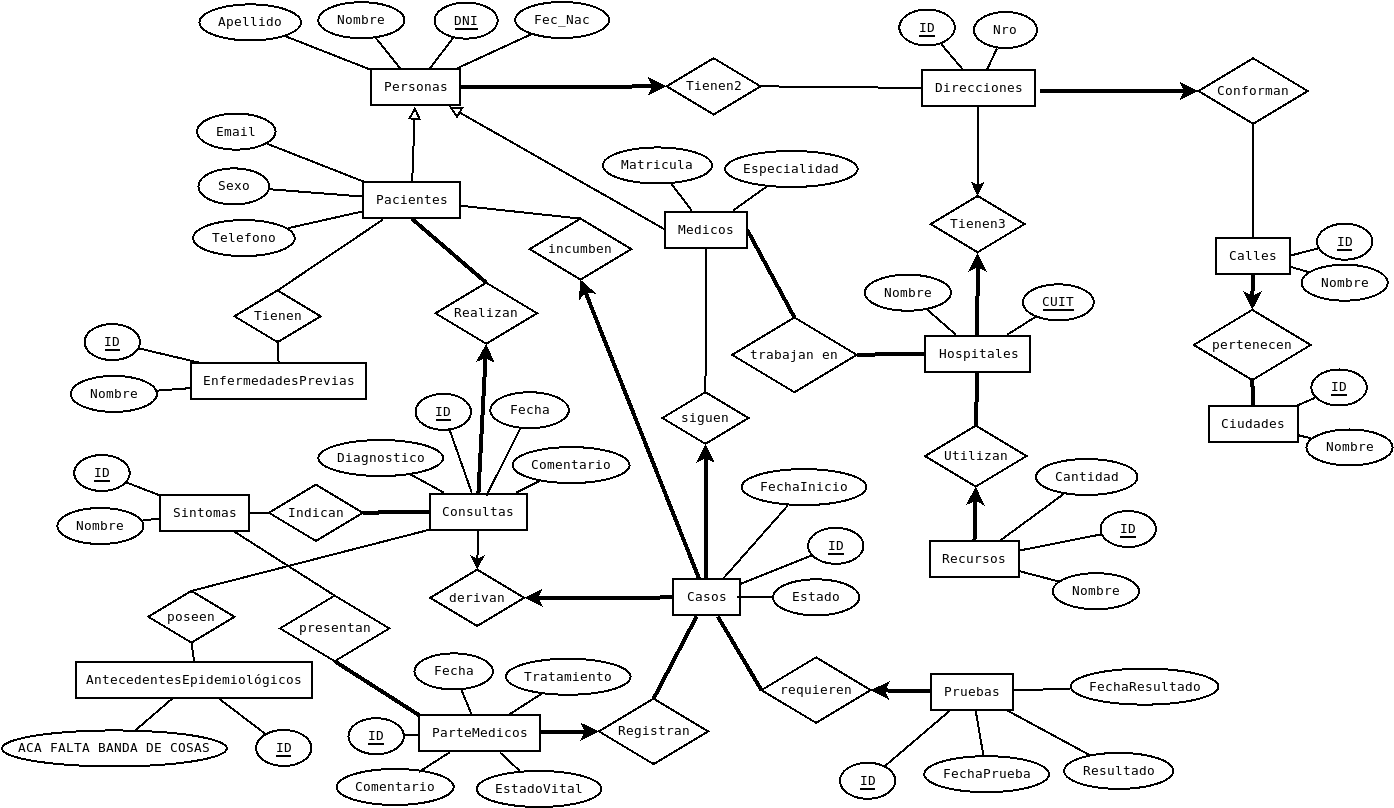
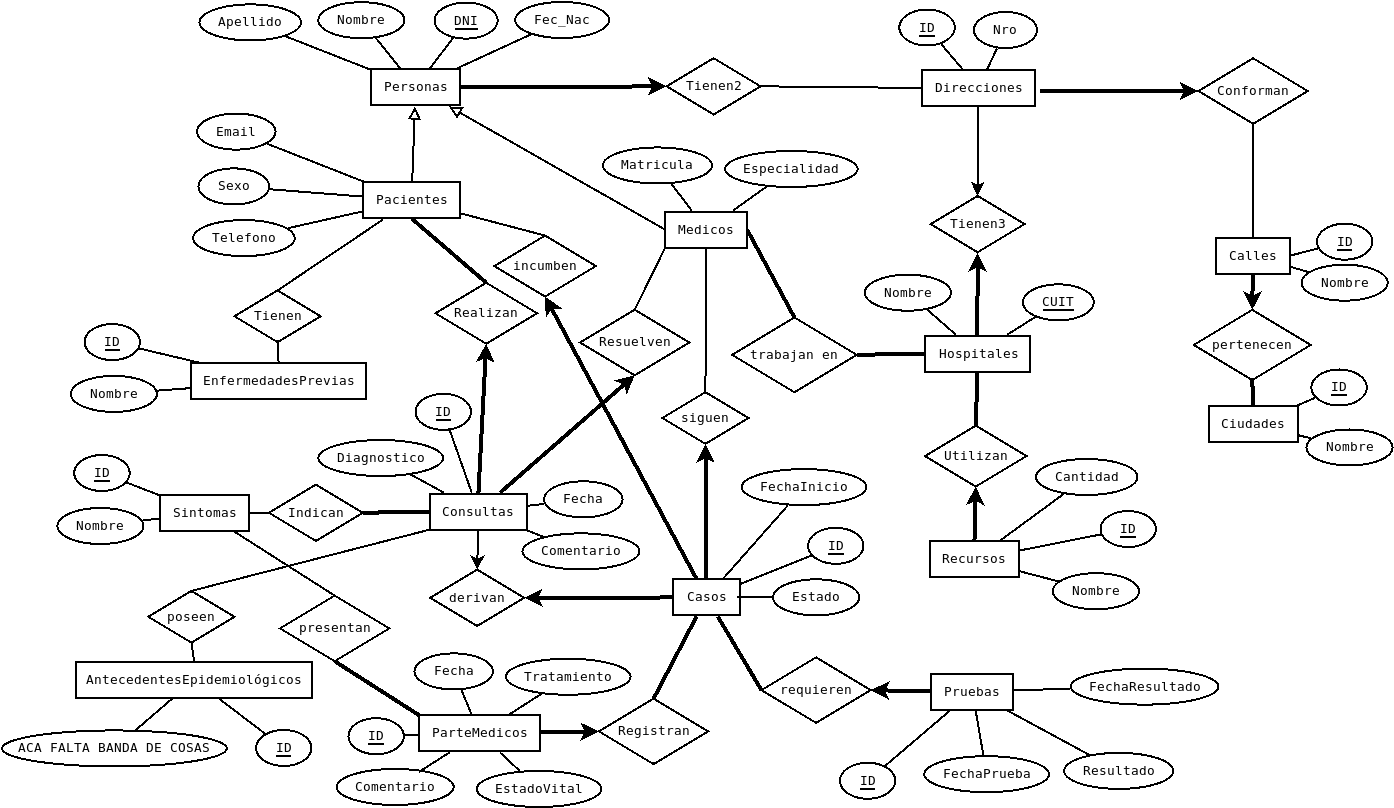
Relacion consulta - Medico added

Changed region(s): [[0.3393, 0.2785, 0.4935, 0.7116], [0.4935, 0.6807, 0.5244, 0.7116], [0.3393, 0.2475, 0.3702, 0.2785]]

diff --git a/src/dal/entities/Consulta.js b/src/dal/entities/Consulta.js
@@ -31,6 +31,7 @@ module.exports = (sequelize, DataType) => {
     Consulta.associate = (models) => {
         Consulta.belongsTo(models.Pacientes, { foreignKey: { allowNull: false }, onDelete: 'CASCADE' });
         Consulta.belongsToMany(models.Sintomas,{through: 'Sintomas_Consultas'});
+	Caso.belongsTo(models.Medicos, { foreignKey: { allowNull: false }, onDelete: 'CASCADE' });
         //Consulta.belongsToMany(models.AntecedentesEpidemiologicos);
         Consulta.hasOne(models.Casos);
     };

diff --git a/src/dal/entities/Medico.js b/src/dal/entities/Medico.js
@@ -46,6 +46,7 @@ module.exports = (sequelize, DataType) => {
     // Relaciones
     Medico.associate = (models) => {
         Medico.hasMany(models.Casos);
+	Medico.hasMany(models.Consultas);
         Medico.belongsTo(models.Direcciones);
         Medico.belongsToMany(models.Hospitales, {through: 'Medicos_Hospitales'});
     };
